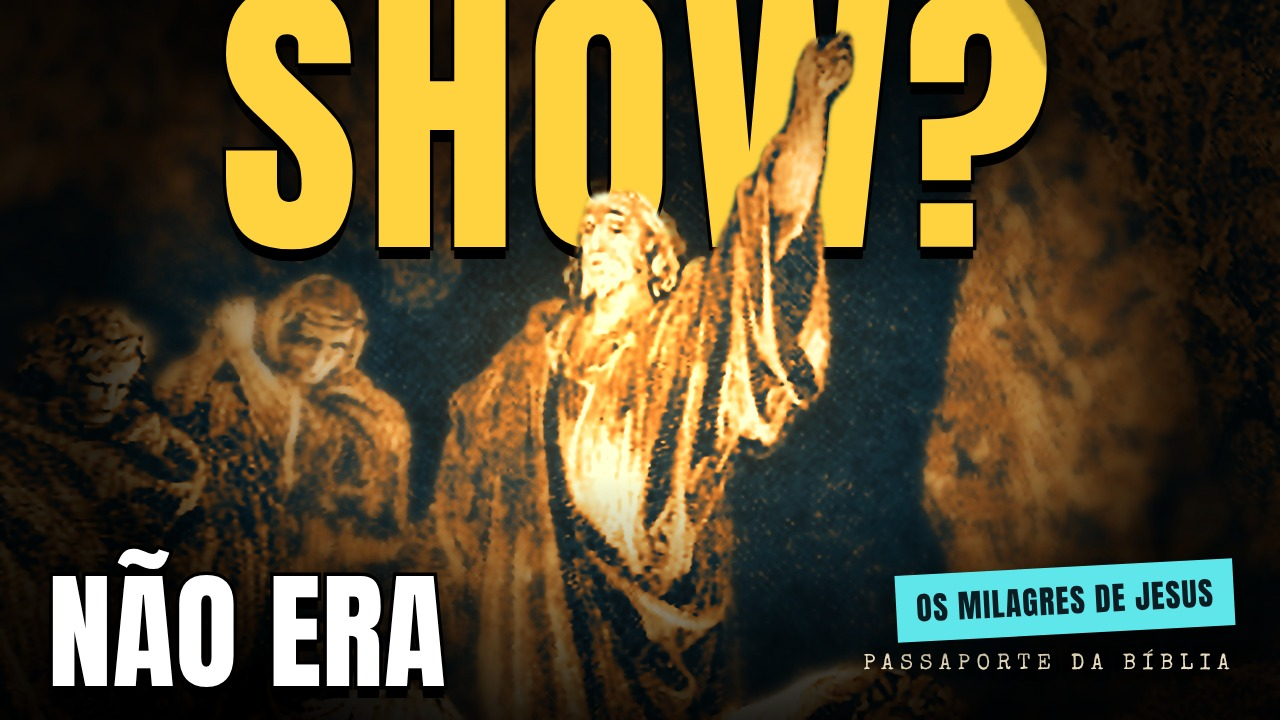
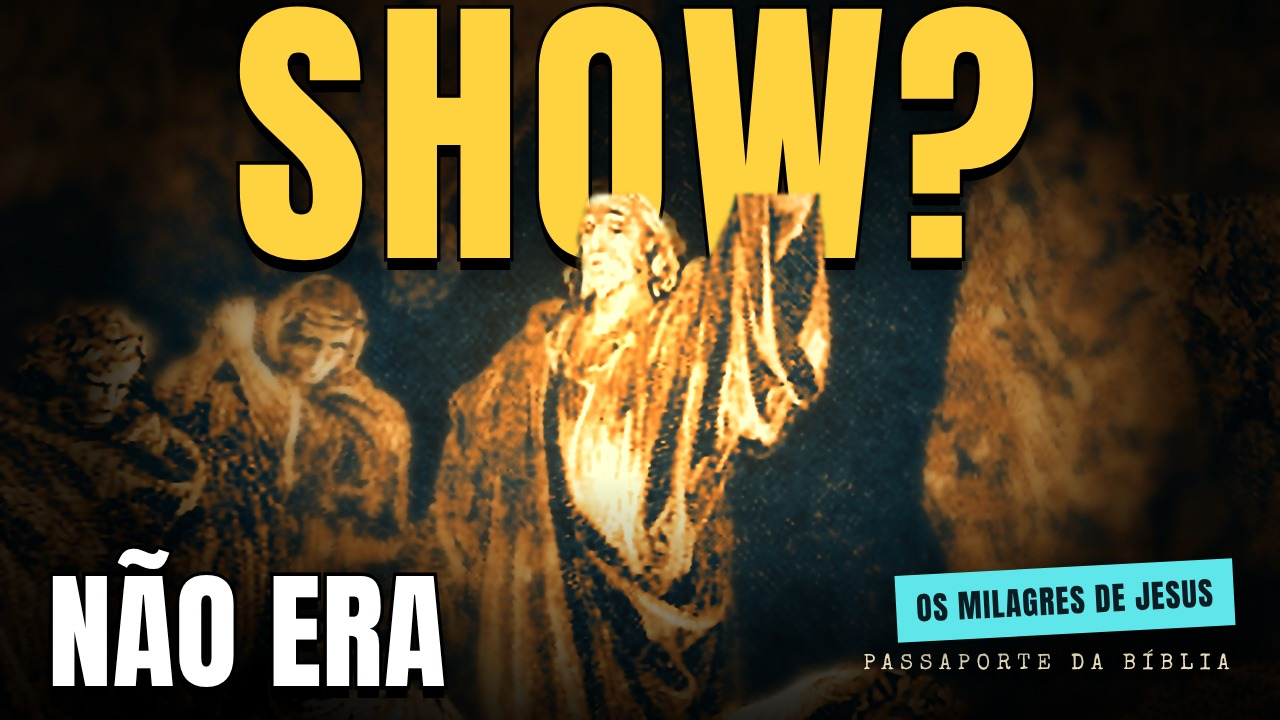
Passaporte: capas v2 dos longos 10-12 (close em Doré, 3 referências salvas, prévia 320/160 px) (conta Zuleide)
Claude-Session: https://claude.ai/code/session_01HVWyXPZiMC2jWfs5PZo8Nt

Changed region(s): [[0.1562, 0.0, 0.8438, 0.3972], [0.4688, 0.2444, 0.5, 0.275]]

diff --git a/conteudo/youtube/passaporte/motor/previa_v3.py b/conteudo/youtube/passaporte/motor/previa_v3.py
@@ -21,19 +21,21 @@ for a, t in NOVAS:
 d.text((40, 510), 'As 3 referências copiadas (capturas em referencias/)', font=f('Bold', 30), fill=TX)
 x = 40
 for a, t in REFS:
-    im.paste(th(a, 600), (x, 560)); d.text((x, 905), t, font=f('Regular', 19), fill=CINZA); x += 620
+    im.paste(th(a, 600), (x, 560)); n, r = t.split(' → ')
+    d.text((x, 902), n, font=f('SemiBold', 20), fill=TX); d.text((x, 930), r, font=f('Regular', 17), fill=CINZA); x += 620
 # simulação da busca do YouTube, miniatura a 320 px de largura
 y0 = 980; d.text((40, y0), 'Busca do YouTube · miniatura a 320 px', font=f('Bold', 30), fill=TX)
 mix = [NOVAS[0][0], OUTRAS[0], NOVAS[1][0], OUTRAS[1], NOVAS[2][0], OUTRAS[2]]
 nomes = [NOVAS[0][1], 'concorrente', NOVAS[1][1], 'concorrente', NOVAS[2][1], 'concorrente']
 for i, (a, n) in enumerate(zip(mix, nomes)):
-    x = 40 + (i % 3) * 620; y = y0 + 60 + (i // 3) * 270
-    im.paste(th(a, 320), (x, y)); d.text((x + 336, y + 4), n if n != 'concorrente' else 'Vídeo de outro canal', font=f('SemiBold', 20), fill=TX)
-    d.text((x + 336, y + 34), 'Passaporte da Bíblia' if n != 'concorrente' else 'canal de história', font=f('Regular', 17), fill=CINZA)
+    x = 40 + (i % 3) * 620; y = y0 + 60 + (i // 3) * 210
+    im.paste(th(a, 320), (x, y)); tt = n if n != 'concorrente' else 'Vídeo de outro canal'
+    import textwrap; d.multiline_text((x + 336, y + 4), '\n'.join(textwrap.wrap(tt, 22)[:3]), font=f('SemiBold', 20), fill=TX, spacing=6)
+    d.text((x + 336, y + 100), 'Passaporte da Bíblia' if n != 'concorrente' else 'canal de história', font=f('Regular', 17), fill=CINZA)
 # lista do celular, miniatura a 160 px
-y0 = 1640; d.text((40, y0), 'Lista do celular · miniatura a 160 px', font=f('Bold', 30), fill=TX)
+y0 = 1500; d.text((40, y0), 'Lista do celular · miniatura a 160 px', font=f('Bold', 30), fill=TX)
 for i, (a, n) in enumerate(zip(mix, nomes)):
     x = 40 + (i % 3) * 620; y = y0 + 60 + (i // 3) * 110
-    im.paste(th(a, 160), (x, y)); d.text((x + 172, y + 4), (n if n != 'concorrente' else 'Vídeo de outro canal')[:34], font=f('SemiBold', 17), fill=TX)
+    im.paste(th(a, 160), (x, y)); d.text((x + 172, y + 4), (n if n != 'concorrente' else 'Vídeo de outro canal')[:30] + ('…' if len(n) > 30 and n != 'concorrente' else ''), font=f('SemiBold', 17), fill=TX)
     d.text((x + 172, y + 30), 'Passaporte da Bíblia' if n != 'concorrente' else 'canal de história', font=f('Regular', 15), fill=CINZA)
-im = im.crop((0, 0, W, 1950)); im.save(os.path.join(P, 'previa-v2.jpg'), quality=88); print('ok')
+im = im.crop((0, 0, W, 1800)); im.save(os.path.join(P, 'previa-v2.jpg'), quality=88); print('ok')

diff --git a/conteudo/youtube/passaporte/motor/capas_v3.py b/conteudo/youtube/passaporte/motor/capas_v3.py
@@ -46,6 +46,7 @@ def capa(c):
         p = np.array(p).astype(np.float32) / 255
         a = np.clip((p - c['corte_prof']) / c.get('rampa', .03), 0, 1)
         if c.get('so_acima'): a[int(720 * c['so_acima']):] = 0
+        if c.get('so_abaixo'): a[:int(720 * c['so_abaixo'])] = 0   # o braço não cobre a palavra (leitura a 160 px)
         a = cv2.GaussianBlur(a, (0, 0), 1.6)
         rgba = np.dstack([rgb, (a * 255).astype(np.uint8)])
         fg = f'<img class="fg" src="{uri(Image.fromarray(rgba, "RGBA"), "PNG")}">'
@@ -74,7 +75,7 @@ def pagina(corpo): return '<!doctype html><html><head><meta charset="utf-8">' + 
 DORE = RAIZ + '/dore/'
 CAPAS = {
  # Ref. EPIC HISTORY "MUTINY": palavra gigante no alto, a figura (Jesus, braço erguido diante do túmulo de Lázaro) passa na frente dela.
- 'capa-10': dict(arq=DORE + '080.jpg', prof=DORE + 'prof/080.png', corte_prof=.095, rampa=.012, crop=(.60, .245, .66), glow=(.50, .48), forca=.7,
+ 'capa-10': dict(arq=DORE + '080.jpg', prof=DORE + 'prof/080.png', corte_prof=.095, rampa=.012, so_abaixo=.27, crop=(.60, .245, .66), glow=(.50, .48), forca=.7,
    antes='<div class="sh" style="background:linear-gradient(180deg,rgba(0,0,0,.55),rgba(0,0,0,0) 45%)"></div>'
          '<div class="t" style="left:0;right:0;top:14px;text-align:center;font-size:290px;letter-spacing:.03em"><b>SHOW?</b></div>',
    depois='<div class="sh" style="background:linear-gradient(0deg,rgba(0,0,0,.75),rgba(0,0,0,0) 34%)"></div>'

diff --git a/conteudo/youtube/passaporte/capas-longos-10-12/TEMPLATE.md b/conteudo/youtube/passaporte/capas-longos-10-12/TEMPLATE.md
@@ -1,3 +1,59 @@
+# Capas dos longos 10 a 12 · v2 (09/11/2026, conta Zuleide, designer gráfico)
+
+Refação pedida pelo Lindson: a v1 ("Pintura anotada", mais abaixo) foi **reprovada** por 4 falhas: capturas não salvas, imagem escura e cheia de detalhe com personagem pequeno, nenhum rosto ou gesto em close, pouco contraste entre assunto e fundo.
+
+- Gerador: `motor/capas_v3.py` → `capa-10.jpg`, `capa-11.jpg`, `capa-12.jpg` (1280×720). Prévia: `motor/previa_v3.py` → `previa-v2.jpg` (as 3 capas, as 3 referências e a busca do YouTube a 320 px e a 160 px).
+- Capturas reais em `referencias/` (16 arquivos + a folha `00-folha-50-miniaturas-coletadas.jpg` com as 50 miniaturas baixadas de `i.ytimg.com`; IDs em `ids-youtube.txt`). Behance e Dribbble capturados pelo Playwright em 09/11.
+- **Status: aguardando aprovação do Lindson.**
+
+## Persona (5 linhas)
+1. Cristão brasileiro, católico ou evangélico, 25 a 60 anos, que quer entender a Bíblia e trava na leitura.
+2. Vê YouTube no celular, à noite ou no intervalo, rolando a lista; decide em menos de 1 segundo, com a miniatura do tamanho de um polegar (160 px).
+3. Dor: "leio e não entendo"; desconfia de capa sensacionalista, de "IA" ou de grito.
+4. Para a rolagem quando vê um rosto ou gesto forte, uma luz dramática e uma pergunta curta que mexe com o que ele acha que já sabe.
+5. Confia em arte clássica (Doré) e tom sério; clicaria numa cena bíblica grande e clara, com uma pergunta de 2 palavras.
+
+## Pesquisa (16 capturas, 8 países)
+Miniaturas oficiais baixadas de `i.ytimg.com/vi/<id>/maxresdefault.jpg` (vídeos recentes de cada canal, IDs em `referencias/ids-youtube.txt`). Número de visualizações não conferido.
+
+| # | Arquivo | Canal / designer | País | O que tem | Situação |
+|---|---|---|---|---|---|
+| 1 | `02-epic-history-mutiny-UK.jpg` | Epic History | Reino Unido | 1 palavra gigante no alto; o personagem fica na frente da palavra | **ESCOLHIDA → capa 10** |
+| 2 | `01-ciencia-todo-dia-flow-BR.jpg` | Ciência Todo Dia | Brasil | close extremo (olho), 1 ponto de foco, palavra gigante cruzando a imagem | **ESCOLHIDA → capa 11** |
+| 3 | `03-johnny-harris-close-US.jpg` | Johnny Harris | EUA | rosto em close de um lado, luz quente, fundo sem detalhe, espaço livre para o texto | **ESCOLHIDA → capa 12** |
+| 4 | `04-veritasium-luz-unica-AU.jpg` | Veritasium | Austrália/EUA | fundo preto, uma luz só | descartada: sem texto, depende de objeto aceso; ficou a ideia do fundo escuro |
+| 5 | `05-epic-history-waterloo-UK.jpg` | Epic History | Reino Unido | retrato à direita + palavra gigante | descartada: o mapa no meio é poluído |
+| 6 | `06-terra-x-zu-reich-DE.jpg` | Terra X History (ZDF) | Alemanha | ilustração com luz dourada, 2 palavras | descartada: ilustração digital, fora da gravura |
+| 7 | `07-historia-meia-hora-BR.jpg` | História em Meia Hora | Brasil | rosto do apresentador + texto de 2 linhas | descartada: depende de apresentador (canal dark) e tem texto demais |
+| 8 | `08-nota-bene-FR.jpg` | Nota Bene | França | apresentador em cena escura | descartada: depende de rosto do apresentador |
+| 9 | `09-fall-of-civilizations-UK.jpg` | Fall of Civilizations | Reino Unido | paisagem + título fino | descartada: sem foco e ilegível a 160 px |
+| 10 | `10-kings-and-generals.jpg` | Kings and Generals | EUA/Ucrânia (não conferido) | foto de guerra + título em faixa | descartada: muito detalhe |
+| 11 | `11-academia-play-ES.jpg` | Academia Play | Espanha | cartum colorido com mão desenhando | descartada: estilo cartum |
+| 12 | `12-bibleproject-US.jpg` | BibleProject | EUA | paisagem com título fino | descartada: pouco contraste |
+| 13 | `13-oversimplified.jpg` | OverSimplified | Canadá (não conferido) | cartum | descartada: estilo cartum |
+| 14 | `14-behance-busca-documentary.jpg` | Behance, busca "youtube thumbnail documentary" | vários | grades de capas de documentário | descartadas: colagens com muito texto |
+| 15 | `15-behance-busca-bible-egor-goncharov.jpg` | Behance, Egor Goncharov e Maya Blizniuk | não conferido | rostos em close, teal e laranja de cinema | apoio: confirma o close com cor de cinema |
+| 16 | `16-dribbble-busca-cinematic.jpg` | Dribbble, busca "youtube thumbnail cinematic" | vários | capas de cinema | descartadas: genéricas |
+
+## O que cada capa copia
+| Capa | Gravura e cena | Referência copiada | Texto |
+|---|---|---|---|
+| **10** Milagres | Doré 080, a ressurreição de Lázaro: Jesus de braço erguido em close (cerca de 55% da altura) | **Epic History "MUTINY":** palavra gigante no alto e a cabeça do personagem passando na frente dela (recorte pelo mapa de profundidade `dore/prof/080.png`; o braço não cobre a letra, para ler "SHOW?" a 160 px) | NÃO ERA **SHOW?** |
+| **11** Êxodo | Doré, Moisés desce do Sinai com as tábuas (Bíblia inglesa de 1866, domínio público, Wikimedia Commons, 1920 px, em `fontes/`): rosto, raios e mão erguida em close | **Ciência Todo Dia "FLOW":** um só personagem em close, luz num ponto, frase gigante de lado a lado | QUIS **VOLTAR?** |
+| **12** Paulo | Doré 095, a conversão: Saulo cobrindo o rosto diante da luz, em close à direita | **Johnny Harris:** personagem de um lado, luz quente nele, fundo afundado no escuro, texto empilhado no espaço livre | ELE **PERSEGUIA** |
+
+Em todas: a cor de cinema do `capas2.py` (sombra petróleo, luz âmbar) com mais contraste, um único brilho atrás do foco, vinheta forte e fundo desfocado longe do foco. Mantidos da identidade: "PASSAPORTE DA BÍBLIA" em Special Elite, a etiqueta ciano da série e a palavra-chave em amarelo (Anton com contorno preto). Nada de vermelho.
+
+## Conferência
+- Persona: cena grande, gesto claro e pergunta de 2 a 3 palavras; tom sério, sem grito.
+- A 160 px (prévia, lista do celular) as 3 frases leem; "SHOW?" só passou depois de tirar o braço da frente da letra W.
+- Gravuras: 080 e 095 já são do canal; Moisés do Sinai é gravura nova (não usada antes).
+- Teste sugerido no YouTube: v2 contra a A aprovada do `capas2.py`, por 2 semanas, ganhando a de maior tempo de exibição.
+
+---
+
+# v1 (reprovada em 09/11/2026)
+
 # Capas dos longos 10 a 12 · pesquisa premium e composição copiada
 
 Pedido do Lindson (09/11/2026, conta Zuleide, Peter): "as novas capas, faça no estilo novo também, das nossas pesquisas de designer".
